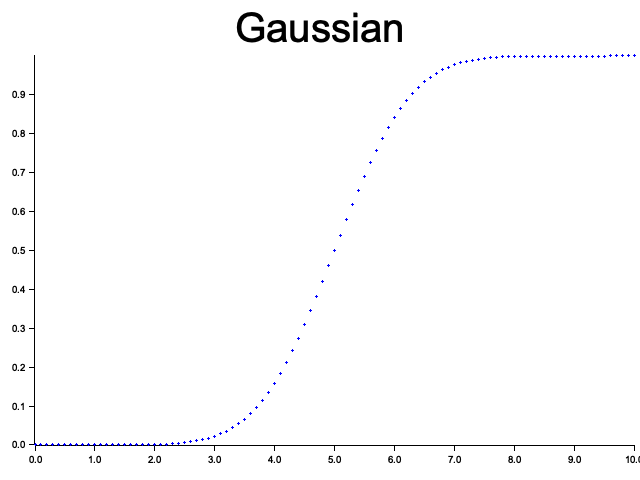
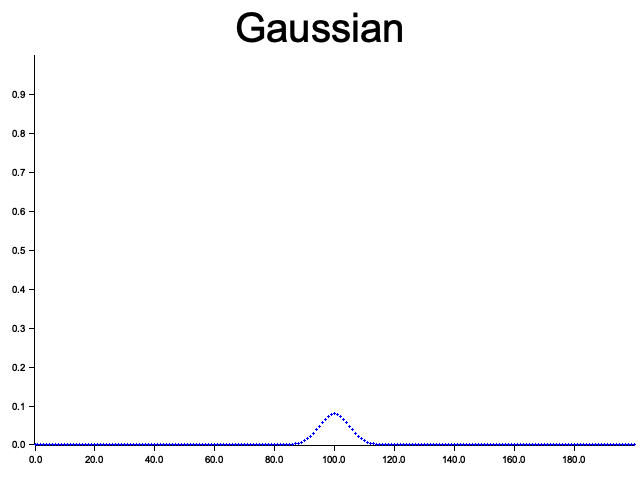
last commit before transitioning to stats library

diff --git a/src/main.rs b/src/main.rs
@@ -1,13 +1,10 @@
-use statistics::data_code::babyboom;
-
-use statistics::stats::analytic::*;
 use statistics::stats::analytic::gaussian::*;
-use statistics::graphing::distribution::*;
-use statistics::stats::cdf::*;
-use statistics::graphing::Plot;
+use statistics::stats::graphing::distribution::*;
+
+use statistics::stats::graphing::Plot;
 
 fn main() -> Result<(), Box<dyn std::error::Error>> {
-    let df = babyboom::get_data();
+    /*let df = babyboom::get_data();
     let min_time: Vec<i64> = df.column("min_time")?.i64()?.into_iter().map(|x| x.unwrap()).collect();
 
     let mut last: i64 = 0;
@@ -18,10 +15,10 @@ fn main() -> Result<(), Box<dyn std::error::Error>> {
     }
     let interarrival_cdf = Cdf::from(interarrival_times);
     interarrival_cdf.plot("plots/babyboom.png", "Baby Interarrival Time", (640, 480));
-
+    */
     //test some distributions
-    let gaussian = Gaussian::new(5f64, 1f64);
-    gaussian.cdf().build_plottable((0.1, 0.001), 0f64, 10f64).plot("plots/gaussian.png", "Gaussian", (640, 480));
+    let gaussian = Gaussian::new(100f64, 5f64);
+    gaussian.build_plottable((1f64, 0.001), 0f64, 200f64).plot("plots/gaussian.png", "Gaussian", (640, 480));
 
     Ok(())
 }

diff --git a/src/stats/graphing/pmf.rs b/src/stats/graphing/pmf.rs
@@ -31,7 +31,7 @@ impl Plot for BucketedPmf
             .unwrap();
         chart.configure_mesh().disable_mesh().draw().unwrap();
         
-        let half_margin = 2f64;
+        let half_margin = 0.01f64;
 
         let rectangles = {
             let mut rectangles = Vec::new();

diff --git a/src/stats/analytic/mod.rs b/src/stats/analytic/mod.rs
@@ -6,6 +6,10 @@ pub trait Distribution {
     fn eval(&self, x: f64) -> f64;
 }
 
+pub trait Sample {
+    fn sample(&self, x: u32) -> Vec<f64>;
+}
+
 pub trait AsCdf {
     type Dist;
 

diff --git a/src/stats/mod.rs b/src/stats/mod.rs
@@ -1,6 +1,7 @@
 pub mod pmf;
 pub mod cdf;
 pub mod analytic;
+pub mod graphing;
 
 pub trait Model {
     fn mean(&self) -> f64;

diff --git a/src/stats/analytic/gaussian.rs b/src/stats/analytic/gaussian.rs
@@ -1,5 +1,6 @@
 use std::f64::consts::*;
 use libm::erf;
+use rand::random;
 
 use super::*;
 

diff --git a/src/lib.rs b/src/lib.rs
@@ -2,5 +2,4 @@
 
 pub mod dct;
 pub mod stats;
-pub mod graphing;
 pub mod data_code;
